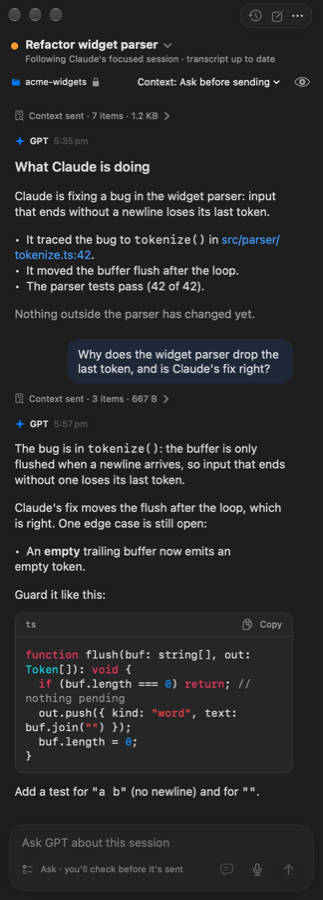
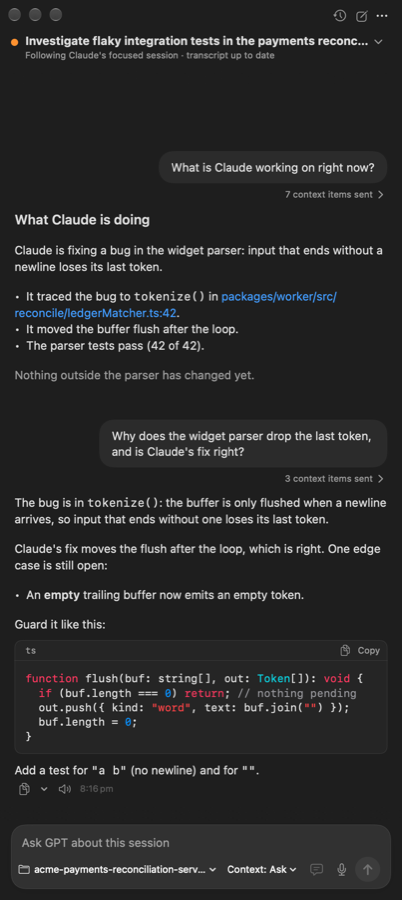
docs(m8): spec and screenshots for the desktop-style rulings
The visual spec now follows D1-D9 (single surface, composer controls, no
overlaps). Screenshots are re-shot at 449 pt with the long synthetic names,
plus chat-long-300.png for the narrow case.

diff --git a/docs/superpowers/specs/2026-11-05-m8-ui-design.md b/docs/superpowers/specs/2026-11-05-m8-ui-design.md
@@ -2,25 +2,41 @@
 
 Companion to `docs/superpowers/plans/2026-11-05-m8-ui-redesign.md` (Tasks 6 and 7). The plan's Rulings R6–R9 apply.
 
+Revised after the owner's review of the first M8 build ("two boxes", overlapping tags and file names): the
+desktop-style rulings D1–D9 below replace the header, status line, composer, turn and empty-state details of the
+first version. The owner's panel is 449 pt wide; every row must hold at 280–640 pt with long titles, repository
+names, branches and paths.
+
 ## Audience
 
 - **Who:** one developer (the owner) running Claude Code Desktop, fluent in both tools, reading code all day.
-- **Context stress:** glancing sideways mid-task; the panel is 300–420 pt wide next to Claude's window; light and dark.
+- **Context stress:** glancing sideways mid-task; the panel is 280–640 pt wide (the owner uses 449) next to Claude's window; light and dark; real titles, repo names, worktree branches and paths are long.
 - **Job:** ask GPT a second opinion on what Claude is doing, see exactly what GPT was given, and lift the answer (or a code block) into Claude or an editor.
 - **Success:** select or copy anything in one move; know at a glance what was sent; get back to an earlier chat after a relaunch.
 
 ## Direction
 
-Calm first-party utility, in the family of Xcode's assistant sidebar and Notes: system typography, semantic colours, the app accent only on the primary action, Liquid Glass only on the navigation layer. Anti-references: the v0.7.0 panel (stacked raw text rows, full-path banner, plain bordered field), chat-app bubbles on both sides, purple gradients, pill clusters.
+The calm single surface of a desktop AI chat app: one continuous canvas on the window background, plain answer text, one soft user bubble, one composer that carries its own controls. System typography and semantic colours; the accent only on the primary action and links. Generic patterns only: no third-party branding, logos, brand colours or fonts.
+
+**D1 One surface, fewer boxes.** The only containers are the question bubble, code blocks and the composer. No glass capsule around the titlebar buttons, no filled card around Context sent, no filled status rows in the chat. The header and the composer sit on the window background, each fading into the chat over 16 pt (`EdgeBacking`), so text scrolling under them never shows around the composer or ends in a hard cut.
+
+**D3 No overlap at 280–640 pt.** Every control row is one line (`lineLimit(1)`): `.middle` truncation for paths, `.tail` for titles, explicit `layoutPriority` so controls never cover text, and `ViewThatFits` to drop to compact labels instead of overlapping. The branch is never inline in the composer row.
+
+Anti-references: the v0.7.0 panel (stacked raw text rows, full-path banner, plain bordered field); the first M8 build (glass capsule, glass-on-glass composer, filled context card, a "GPT" label row on every answer); chat-app bubbles on both sides; purple gradients; pill clusters.
 
 ## Tokens (`Views/Design.swift`)
 
 | Token | Value | Use |
 |---|---|---|
 | `Space.xs/s/m/l/xl` | 4 / 8 / 12 / 16 / 24 pt | all padding and stack spacing |
-| `Radius.chip` | 7 | chips, code header buttons |
-| `Radius.bubble` | 14 | question bubble, code block |
-| `Radius.composer` | 18 | floating composer glass |
+| `Radius.bubble` | 16 | question bubble |
+| `Radius.code` | 8 | code block |
+| `Radius.composer` | 16 | composer field |
+| `Fill.bubble` | `.primary` at 7% | question bubble (neutral, light and dark) |
+| `Fill.composer` | white (light); window background + 6% white, opaque (dark) | composer field |
+| `Fill.hairline` | `.primary` at 12% | composer and code borders (0.5 pt), context list rule (2 pt) |
+| `bodyLineSpacing` | 3 | answer prose and question |
+| `turnGap` | 18 | between turns (measured from the answer's actions row) |
 | `Motion.quick` | 0.12 s, `.snappy` | icon swaps, copied ticks, hover |
 | `Motion.standard` | 0.18 s, `.smooth` | disclosure, status line |
 | `Motion.enter` | 0.24 s, `.smooth` | new message entrance (opacity + 6 pt rise) |
@@ -41,19 +57,24 @@ Reduce Motion: no offsets, opacity only; typing dots static.
 
 ## Layout (top → bottom)
 
-1. **Header** (glass bar, hard scroll-edge effect below it). Row 1: status dot + session title as a menu-style button (opens the session picker popover; chevron), then icon buttons History (`clock.arrow.circlepath`), New chat (`square.and.pencil`, ⌘K), More (`ellipsis.circle`: Refresh ⌘R, Pin/Unpin, Copy conversation ⌘⇧C, Settings…). Row 2: repo chip (`folder.fill` tinted, `acme-widgets`, `·`, branch in secondary, `lock.fill` caption2) with `.help(full path)`; trailing context mode chip (`Context · Ask ▾`) as a borderless `Menu`.
-2. **Status line** (only when something needs attention): one 28 pt row, tinted symbol + one-line text + optional action + `1/3` pager + ✕. Background `.quaternary` fill at 50%, radius 8, inset 12 pt. Click expands to the full text.
+1. **Header** (D2: identity only). Row 1, beside the traffic lights: plain borderless icon buttons in `.secondary`, no container: History (`clock.arrow.circlepath`), New chat (`square.and.pencil`, ⌘K), More (`ellipsis`: Refresh, Follow/Keep session, Explain Claude's last message, Copy conversation, Copy with context, Settings…). Row 2: status dot + session title (`.headline`, `.tail`, opens the session picker; chevron) and one secondary caption line (follow state, `.tail`). The repository and the context mode are not in the header.
+2. **Status line** (D8, only when something needs attention): one borderless row on the window background, tinted symbol + one-line text + optional action + `1/3` pager + ✕. Click expands to the full text.
 3. **Content**: gate state, empty state, chat, or past chat.
-4. **Composer** (floating glass, radius 18, 10 pt inset from the edges): multi-line field (1–8 lines), placeholder "Ask GPT about this session", leading context hint row above the field in caption ("Context: Ask — you'll check before anything is sent" / "Off — only your question and the repo" / "Automatic — new session context, redacted"), trailing mic and a 28 pt circular send button (accent, `arrow.up`) that becomes a stop button (`stop.fill`) while answering. Return sends, ⇧/⌥ Return inserts a newline, ⌘↩ sends.
+4. **Composer** (D7): one rounded field (radius 16) with a 0.5 pt hairline border and a soft shadow (black 6%, radius 8, y 2), 12 pt from the edges, on the window background: no glass, no double outline. Input on top (1–8 lines, "Ask GPT about this session"); below it the control row (D2): `[folder repo ▾] [Context: Ask ▾] … [Explain] [mic] [send]`.
+   - **Repo menu**: folder symbol + repository name; tooltip and menu carry the full path, the branch and "read-only"; the menu offers Copy Repository Path. The accessibility label is "Repository: name · branch, read-only".
+   - **Context menu**: the three modes with subtitles (choosing Automatic still asks for confirmation), then "What GPT Can See…" (the eye popover, also reachable from the empty state).
+   - Fitting (D3): `ViewThatFits` tries the full labels, then the repository name truncated (ideal 120 pt) with "Context: Ask", then "Ask" / "Auto" / "Off". The trailing buttons are `fixedSize`; the controls take only what they leave.
+   - Send is a 28 pt accent circle (`arrow.up`), a stop button (`stop.fill`) while answering. Return sends, ⇧/⌥ Return inserts a newline, ⌘↩ sends.
 
 ## Turn
 
-- Question: trailing-aligned bubble, max 85% width, `Color.accentColor.opacity(0.12)` fill, radius 14, `.body`, selectable, context menu Copy.
-- Under it, leading: **Context sent** disclosure row — `doc.text.magnifyingglass` + "Context sent · 6 items · 3.1 KB" (or "No session context · Off" / "Context: question only"), chevron rotates. Expanded: a rounded `.quaternary` container listing each item (label in caption semibold, "2 masked" in orange caption2, text in mono caption, selectable, 6 lines with "Show more"), notes in caption secondary, and a row "Copy context" / "Show raw block" (raw = the exact `<untrusted_data>` block in mono, selectable).
-- Answer: full width, no bubble. A small leading label row: `sparkle` symbol + "GPT" caption semibold + time. Prose is one selectable `Text` per run of non-code blocks; code blocks are cards (header: language in caption mono secondary + Copy button with "Copied" tick for 1.2 s; body: highlighted mono, horizontal scroll, selectable).
-- Answer actions (visible on hover, always in VoiceOver and the context menu): Copy (menu: Copy as Markdown, Copy as plain text), Read aloud / Pause, Stop reading.
+- Question (D4): soft neutral bubble (`Fill.bubble`, radius 16), trailing, at most 80% of the column (`TrailingFraction` layout), `.body`, selectable, context menu Copy.
+- Under it, trailing (D5): **Context sent** as one quiet caption line in `.secondary` — "7 context items sent ›" / "Question only" / "Question only · Context off" (the size, "Context sent · 7 items · 3.1 KB", is in the tooltip and the accessibility label). Expanded, full width: the items as a list with a 2 pt hairline leading rule, no fill. Each item: label in caption secondary (+ "2 masked" in orange caption2); prose in `.body`; commands and failure output in callout mono; edited files and folder moves as one line of file name (callout mono, primary) + parent folder (caption mono, secondary, `.middle`), the full path in the tooltip and selectable in the raw block. Long text: 6 lines, then "Show more". Notes in caption secondary. "Copy Context" and "Raw Block" are small borderless caption buttons; the raw block is the exact `<untrusted_data>` text in a code block.
+- Answer (D4): plain full-width text, no bubble and no "GPT" label row. Prose is one selectable `Text` per run of non-code blocks, line spacing 3, block gaps 10 pt.
+- Code blocks (D6): the one deliberate box inside answers. Hairline border, faint fill (`.primary` 3.5%), radius 8, a small header (language in caption mono secondary + borderless Copy with a "Copied" tick for 1.2 s), highlighted selectable mono that soft-wraps.
+- Answer actions (D4): one compact row (22 pt) directly under the answer: Copy ▾ (click copies Markdown; menu: Copy as Markdown, Copy as Plain Text, Read Aloud), Read aloud / Pause, Stop reading, a "Speaking" badge while reading, and the time in tertiary caption. Always visible for the latest answer; on hover for older ones (opacity only, so hovering never moves text, and the actions stay reachable by keyboard and VoiceOver).
 - Streaming: before the first delta, three pulsing dots ("GPT is thinking"); with text, a 2 pt accent caret after the last run is not needed — the composer's stop button and the "Answering…" caption carry the state. Tool activity: `doc.text.magnifyingglass` + "Reading the repository…" caption with a small spinner.
-- Failure: orange `exclamationmark.triangle.fill` + reason + "Send again" button (when retryable). Interrupted: secondary "Stopped".
+- Failure: borderless, orange `exclamationmark.triangle.fill` + reason + borderless "Send Again" (when retryable). Interrupted: secondary "Stopped".
 
 ## States
 
@@ -66,10 +87,14 @@ Reduce Motion: no offsets, opacity only; typing dots static.
 | Signed out | `person.crop.circle.badge.questionmark`, "Sign in with ChatGPT", one sentence, **Sign in with ChatGPT** (prominent) |
 | Auth error / unsupported | as signed out with the reason and Retry |
 | No session | `rectangle.on.rectangle.slash`, "No Claude session", "Open Claude Code Desktop and select a session.", **Refresh** |
-| Empty chat | `bubble.left.and.text.bubble.right` in accent hierarchical, "Ask GPT about this session", "GPT sees what you allow and can read this repository, read-only.", four suggestion buttons (bordered, full width, leading symbol): Explain Claude's last message · Review Claude's latest change for bugs · What is Claude stuck on? · Summarize this session so far (context-dependent ones hidden in Off) |
-| Past chat | slim bar under the header: `clock` "Past chat · <date> · read-only" + **Back to current chat**; composer replaced by that bar's action |
+| Empty chat | `bubble.left.and.text.bubble.right` in accent hierarchical, "Ask GPT about this session", "GPT sees what you allow and can read this repository, read-only.", four suggestions as plain rows (leading accent symbol, callout text that wraps; no box at rest, a soft fill on hover and press): Explain Claude's last message · Review Claude's latest change for bugs · What is Claude stuck on? · Summarize this session so far (context-dependent ones hidden in Off) |
+| Past chat | borderless row under the header: `clock` "Past chat · read-only" + date + **Back to Current Chat**; composer replaced by that row's action |
 | History | popover from the History button, 340×440: search field, sections Today / Earlier, rows (title, first question in secondary, `N turns · 2 h ago`, current marked with a dot), row context menu Open / Copy chat / Delete…, footer "Clear all history…" |
 
 ## Accessibility
 
-Every icon button has `accessibilityLabel` and `.help`. A question reads "You asked: …", an answer "GPT answered: …" with actions exposed as accessibility actions (Copy, Copy as plain text, Read aloud). Status dot has a text label. Contrast relies on semantic colours; the accent fill behind questions keeps text `.primary`.
+Every icon button has `accessibilityLabel` and `.help`. A question reads "You asked: …", an answer "GPT answered: …" with actions exposed as accessibility actions (Copy, Copy as plain text, Read aloud). Status dot has a text label. The repository menu reads "Repository: name · branch, read-only"; the context line reads the full "Context sent · N items · size". Contrast relies on semantic colours; the neutral bubble fill keeps question text `.primary`.
+
+## Verification
+
+DEBUG demo knobs: `COMPANION_DEMO_WIDTH=<pt>` sizes the panel before the first layout; `COMPANION_DEMO_LONG=1` uses long synthetic title, repository, branch and paths. Shoot chat, context, empty, status and history at 300, 360, 449 and 600 pt with LONG=1, light and dark: nothing may overlap, clip mid-glyph, or sit boxed in a box.

diff --git a/docs/screenshots/m8/README.md b/docs/screenshots/m8/README.md
@@ -1,16 +1,25 @@
 # M8 screenshots
 
-These are rendered by the DEBUG demo connector (`COMPANION_DEMO=<scene>`) with synthetic data only: repo
-"acme-widgets", session "Refactor widget parser". Nothing here comes from a real session or repository. The
-demo connector is compiled out of release builds.
+These are rendered by the DEBUG demo connector (`COMPANION_DEMO=<scene>`) with synthetic data only. Nothing here
+comes from a real session or repository. The demo connector is compiled out of release builds.
+
+All shots except `before-chat.png` and `icon-512.png` are at the 449 pt panel width (`COMPANION_DEMO_WIDTH=449`)
+with the long synthetic names (`COMPANION_DEMO_LONG=1`): session "Investigate flaky integration tests in the
+payments reconciliation worker after the Node upgrade", repo "acme-payments-reconciliation-service", branch
+"claude/fix-flaky-reconciliation-tests-7f3a2c", file "packages/worker/src/reconcile/ledgerMatcher.ts". Long names
+are what overlapped in the first M8 build.
 
 - `before-chat.png`: the v0.7.0 chat view, for comparison.
-- `empty-light.png`, `empty-dark.png`: the new empty state.
-- `chat-light.png`, `chat-dark.png`: a chat with context sent, a Markdown answer and a code block with Copy.
-- `context-dark.png`: the "Context sent" disclosure opened, with Copy Context and Show Raw Block.
+- `empty-light.png`, `empty-dark.png`: the empty state, with the composer's repo and context controls.
+- `chat-light.png`, `chat-dark.png`: a chat on one surface: question bubbles, "context items sent" lines, a
+  Markdown answer, a code block with Copy, and the latest answer's actions row.
+- `chat-long-300.png`: the same chat at 300 pt: the title truncates, the repo name shortens and the context
+  control drops to "Ask" instead of overlapping.
+- `context-dark.png`: "context items sent" opened: the items list with file name + parent folder, Copy Context and
+  Raw Block.
 - `history-light.png`: the History popover with past chats.
-- `whatGPTSees-light.png`: the "What GPT can see" popover.
+- `whatGPTSees-light.png`: the "What GPT can see" popover, opened from the context menu; it names the branch.
 - `ask-light.png`: the Ask preview before a question is sent.
 - `signedOut-light.png`: the signed-out state.
-- `status-light.png`: the status line.
-- `icon-512.png`: the new app icon.
+- `status-light.png`: the borderless status line.
+- `icon-512.png`: the app icon.
